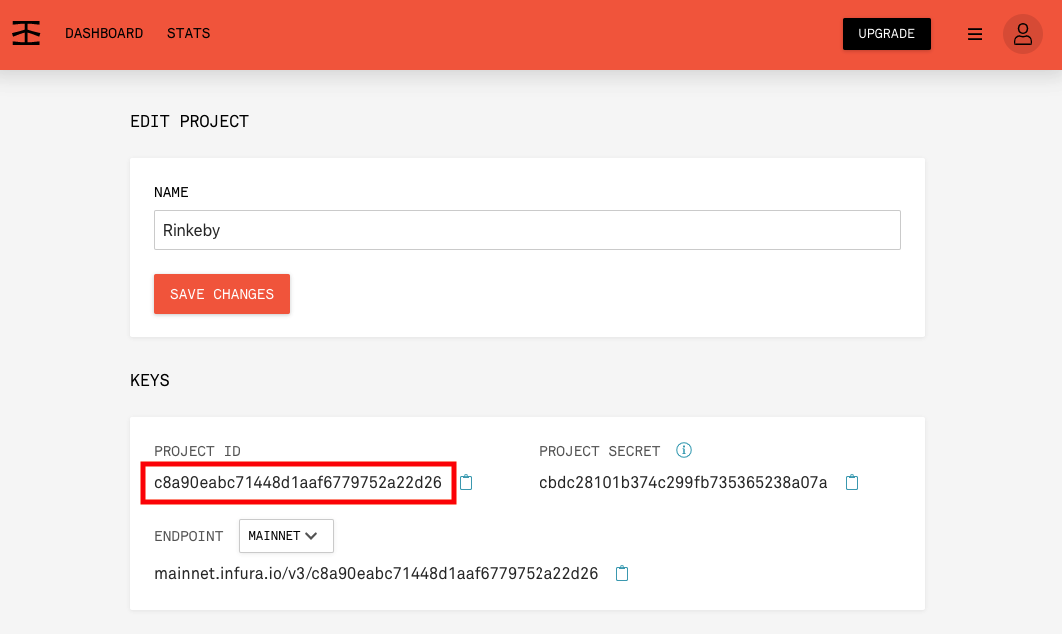
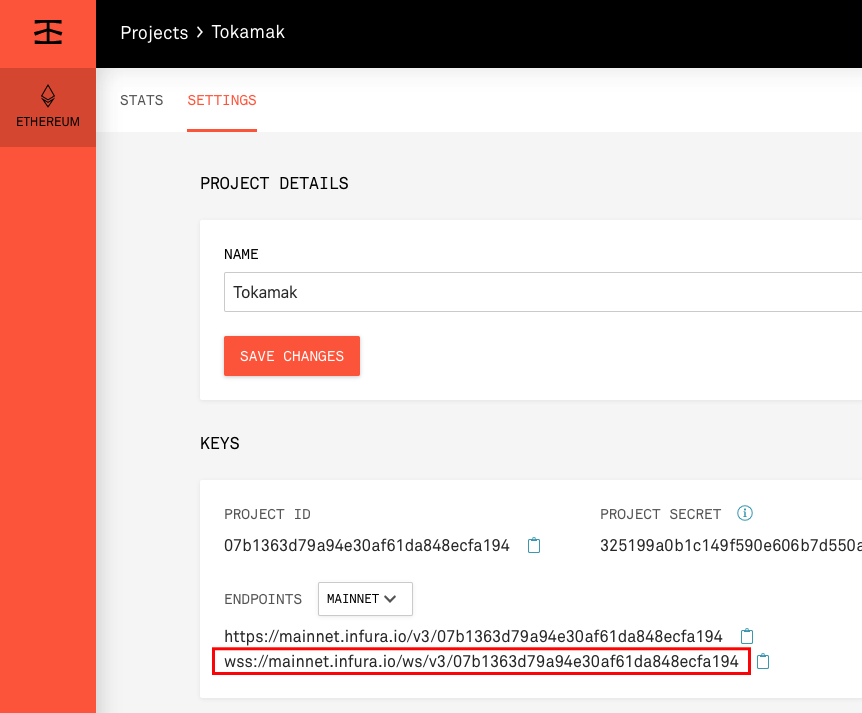
docs/getting-started: Updated TON staking docs for faraday and mainnet

diff --git a/website/translated_docs/ko/guides/getting-started/how-to-test-ton-stake-mainnet.md b/website/translated_docs/ko/guides/getting-started/how-to-test-ton-stake-mainnet.md
@@ -1,7 +1,7 @@
 ---
-id: faraday-testnet-staking
-title: Staking in Faraday Testnet
-sidebar_label: Staking Faraday Testnet
+id: mainnet-staking
+title: How to stake TON in Mainnet
+sidebar_label: Mainnet staking
 ---
 
 이 문서는 오퍼레이터가 TON을 스테이크 하는 방법에대해 다룬다.
@@ -27,7 +27,7 @@ sidebar_label: Staking Faraday Testnet
 
 ### 루트체인 접속 주소
 
-오퍼레이터 노드를 실행하기 위해 루트체인 접속 주소가 필요하다. 여러 방법이 있지만, `Infura`를 통해 제공되는 `Rinkeby` 테스트넷 노드 주소를 사용하는것이 간편하다. `Infura`를 통해 접속 가능한 주소를 확보한다.
+오퍼레이터 노드를 실행하기 위해 루트체인 접속 주소가 필요하다. 여러 방법이 있지만, `Infura`를 통해 제공되는 노드 주소를 사용하는것이 간편하다. `Infura`를 통해 접속 가능한 주소를 확보한다.
 
 만약, `Infura` 계정이 없다면 [infura.io](https://infura.io/) 회원가입을 통해 접속 주소(URL)를 얻을 수 있다.
 
@@ -35,10 +35,10 @@ sidebar_label: Staking Faraday Testnet
 
 그 다음, 아래와 같이 `PROJECT ID`가 조합된 `ENDPOINTS` 주소를 사용한다.
 
-`wss://rinkeby.infura.io/ws/v3/[PROJECT ID]`
+`wss://mainnet.infura.io/ws/v3/[PROJECT ID]`
 
 ![Infura node ID](assets/guides_create-infura-node.png)
-예) `wss://rinkeby.infura.io/ws/v3/07b1363d79a94e30af61da848ecfa194`
+예) `wss://mainnet.infura.io/ws/v3/07b1363d79a94e30af61da848ecfa194`
 
 만약 자신이 운영하고 있는 이더리움 노드가 있다면, 해당 노드의 접속 주소를 `Infura` 주소 대신 사용할 수 있다.
 
@@ -59,19 +59,13 @@ $ curl -g https://dashboard-api.tokamak.network/chainids
 
 현재까지 등록된 자식체인들의 ID가 `List` 형태로 출력된다.
 
-### 테스트 TON 받기
-
-<!- TODO : update how to get test ton ->
-
-WIP
-
 ## 오퍼레이터 자식체인 설정
 
 ### Plasma-evm 실행 환경 구성
 
 Plasma-evm 소스코드 컴파일 환경 구성은 [루트체인 설정 - 로컬 환경 설정](how-to-open-private-testnet-rootchain#로컬-환경-설정) 을 참고한다.
 
-[프라이빗 테스트넷 시작](how-to-open-private-testnet-rootchain#저장소-다운로드-및-컴파일) 과정을 통해 `plasma-evm` 의 `geth` 실행이 가능하다면 다음 단계로 넘어가도 된다.
+[프라이빗 테스트넷 시작]() 과정을 통해 `plasma-evm` 의 `geth` 실행이 가능하다면 다음 단계로 넘어가도 된다.
 
 먼저, 소스코드를 다운로드 받는다.
 
@@ -134,7 +128,7 @@ Path of the secret key file: operator/keystore/UTC--2020-01-01T00-00-00.00000000
 ```bash
 plasma-evm $ build/bin/geth --nousb deploy genesis.json 1010 true 2 \
             --datadir ./operator \
-            --rootchain.url wss://rinkeby.infura.io/ws/v3/07b1363d79a94e30af61da848ecfa194 \
+            --rootchain.url wss://mainnet.infura.io/ws/v3/07b1363d79a94e30af61da848ecfa194 \
             --unlock 0x57ab89f4eabdffce316809d790d5c93a49908510 \
             --password pwd.pass \
             --rootchain.sender 0x57ab89f4eabdffce316809d790d5c93a49908510
@@ -145,7 +139,7 @@ plasma-evm $ build/bin/geth --nousb deploy genesis.json 1010 true 2 \
 ```bash
 plasma-evm $ build/bin/geth --nousb init genesis.json \
             --datadir ./operator  \
-            --rootchain.url wss://rinkeby.infura.io/ws/v3/07b1363d79a94e30af61da848ecfa194
+            --rootchain.url wss://mainnet.infura.io/ws/v3/07b1363d79a94e30af61da848ecfa194
 ```
 
 ### 스테이크 주소 설정
@@ -176,7 +170,7 @@ plasma-evm $ build/bin/geth --nousb manage-staking getManagers --datadir ./opera
 ```bash
 plasma-evm $ build/bin/geth --nousb manage-staking register \
             --datadir ./operator \
-            --rootchain.url wss://rinkeby.infura.io/ws/v3/07b1363d79a94e30af61da848ecfa194 \
+            --rootchain.url wss://mainnet.infura.io/ws/v3/07b1363d79a94e30af61da848ecfa194 \
             --unlock 0x57ab89f4eabdffce316809d790d5c93a49908510 \
             --password pwd.pass \
             --rootchain.sender 0x57ab89f4eabdffce316809d790d5c93a49908510
@@ -238,7 +232,7 @@ curl -X POST \
 
 ### 커미션 설정
 
-오퍼레이터가 아닌 일반 사용자들로부터 `TON`을 위임받을 수 있다. 이때, 오퍼레이터는 위임 받은 `TON` 토큰에서 발생한 시뇨리지에 대한 커미션, 즉 수수료를 받을 수 있다.
+오퍼레이터가 아닌 일반 사용자들로부터 `TON`을 위임받을 수 있다. 이때, 오퍼레이터는 위임 받은 `TON` 토큰에서 발생한 시뇨리지에 대한 커미션, 즉 수수료를 정할 수 있다.
 
 초기 루트체인 컨트랙트를 등록하거나, 오퍼레이터가 자식체인을 운영하는 도중에서도 변경 가능하다.
 
@@ -249,7 +243,7 @@ curl -X POST \
 ```bash
 plasma-evm $ build/bin/geth --nousb manage-staking setCommissionRate 0.01 \
             --datadir ./operator \
-            --rootchain.url wss://rinkeby.infura.io/ws/v3/07b1363d79a94e30af61da848ecfa194 \
+            --rootchain.url wss://mainnet.infura.io/ws/v3/07b1363d79a94e30af61da848ecfa194 \
             --unlock 0x57ab89f4eabdffce316809d790d5c93a49908510 \
             --password pwd.pass \
             --rootchain.sender 0x57ab89f4eabdffce316809d790d5c93a49908510
@@ -262,7 +256,7 @@ plasma-evm $ build/bin/geth --nousb manage-staking setCommissionRate 0.01 \
 ```bash
 plasma-evm $ build/bin/geth --nousb staking balances 0x57ab89f4eabdffce316809d790d5c93a49908510 \
             --datadir ./operator \
-            --rootchain.url wss://rinkeby.infura.io/ws/v3/07b1363d79a94e30af61da848ecfa194 \
+            --rootchain.url wss://mainnet.infura.io/ws/v3/07b1363d79a94e30af61da848ecfa194 \
             --unlock 0x57ab89f4eabdffce316809d790d5c93a49908510 \
             --password pwd.pass \
             --rootchain.sender 0x57ab89f4eabdffce316809d790d5c93a49908510
@@ -303,7 +297,7 @@ INFO [01-01|00:00:00.000] Comitted Stake                           amount="0 WTO
 ```bash
 plasma-evm $ build/bin/geth --nousb staking swapFromTON 1000.0 \
             --datadir ./operator \
-            --rootchain.url wss://rinkeby.infura.io/ws/v3/07b1363d79a94e30af61da848ecfa194 \
+            --rootchain.url wss://mainnet.infura.io/ws/v3/07b1363d79a94e30af61da848ecfa194 \
             --unlock 0x57ab89f4eabdffce316809d790d5c93a49908510 \
             --password pwd.pass \
             --rootchain.sender 0x57ab89f4eabdffce316809d790d5c93a49908510
@@ -314,7 +308,7 @@ plasma-evm $ build/bin/geth --nousb staking swapFromTON 1000.0 \
 ```bash
 plasma-evm $ build/bin/geth --nousb staking stakeWTON 500.0 \
             --datadir ./operator \
-            --rootchain.url wss://rinkeby.infura.io/ws/v3/07b1363d79a94e30af61da848ecfa194 \
+            --rootchain.url wss://mainnet.infura.io/ws/v3/07b1363d79a94e30af61da848ecfa194 \
             --unlock 0x57ab89f4eabdffce316809d790d5c93a49908510 \
             --password pwd.pass \
             --rootchain.sender 0x57ab89f4eabdffce316809d790d5c93a49908510
@@ -325,7 +319,7 @@ plasma-evm $ build/bin/geth --nousb staking stakeWTON 500.0 \
 ```bash
 plasma-evm $ build/bin/geth --nousb staking stakeTON 500.0 \
             --datadir ./operator \
-            --rootchain.url wss://rinkeby.infura.io/ws/v3/07b1363d79a94e30af61da848ecfa194 \
+            --rootchain.url wss://mainnet.infura.io/ws/v3/07b1363d79a94e30af61da848ecfa194 \
             --unlock 0x57ab89f4eabdffce316809d790d5c93a49908510 \
             --password pwd.pass \
             --rootchain.sender 0x57ab89f4eabdffce316809d790d5c93a49908510
@@ -348,7 +342,7 @@ plasma-evm $ build/bin/geth --nousb staking stakeTON 500.0 \
 ```bash
 plasma-evm $ build/bin/geth --nousb \
             --datadir ./operator \
-            --rootchain.url wss://rinkeby.infura.io/ws/v3/07b1363d79a94e30af61da848ecfa194 \
+            --rootchain.url wss://mainnet.infura.io/ws/v3/07b1363d79a94e30af61da848ecfa194 \
             --unlock 0x57ab89f4eabdffce316809d790d5c93a49908510 \
             --password pwd.pass \
             --rootchain.sender 0x57ab89f4eabdffce316809d790d5c93a49908510 \
@@ -389,7 +383,7 @@ console에 `eth.sendTransaction({from: eth.accounts[0], to:eth.accounts[0], valu
 ```bash
 plasma-evm $ build/bin/geth --nousb staking balances 0x57ab89f4eabdffce316809d790d5c93a49908510 \
             --datadir ./operator \
-            --rootchain.url wss://rinkeby.infura.io/ws/v3/07b1363d79a94e30af61da848ecfa194 \
+            --rootchain.url wss://mainnet.infura.io/ws/v3/07b1363d79a94e30af61da848ecfa194 \
             --unlock 0x57ab89f4eabdffce316809d790d5c93a49908510 \
             --password pwd.pass \
             --rootchain.sender 0x57ab89f4eabdffce316809d790d5c93a49908510
@@ -426,7 +420,7 @@ INFO [01-01|00:00:00.000] Comitted Stake                           amount="500.0
 ```bash
 plasma-evm $ build/bin/geth --nousb staking requestWithdrawal 510.0 \
               --datadir ./operator \
-              --rootchain.url wss://rinkeby.infura.io/ws/v3/07b1363d79a94e30af61da848ecfa194 \
+              --rootchain.url wss://mainnet.infura.io/ws/v3/07b1363d79a94e30af61da848ecfa194 \
               --unlock 0x57ab89f4eabdffce316809d790d5c93a49908510 \
               --password pwd.pass \
               --rootchain.sender 0x57ab89f4eabdffce316809d790d5c93a49908510
@@ -449,7 +443,7 @@ b07f4d
 ```bash
 plasma-evm $ build/bin/geth --nousb staking balances 0x57ab89f4eabdffce316809d790d5c93a49908510 \
             --datadir ./operator \
-            --rootchain.url wss://rinkeby.infura.io/ws/v3/07b1363d79a94e30af61da848ecfa194 \
+            --rootchain.url wss://mainnet.infura.io/ws/v3/07b1363d79a94e30af61da848ecfa194 \
             --rootchain.sender 0x57ab89f4eabdffce316809d790d5c93a49908510
 
 INFO [01-01|00:00:00.000] Maximum peer count                       ETH=50 LES=0 total=50
@@ -475,7 +469,7 @@ INFO [01-01|00:00:00.000] Comitted Stake                           amount="10 WT
 ```bash
 plasma-evm $ build/bin/geth --nousb staking processWithdrawal \
               --datadir ./operator \
-              --rootchain.url wss://rinkeby.infura.io/ws/v3/07b1363d79a94e30af61da848ecfa194 \
+              --rootchain.url wss://mainnet.infura.io/ws/v3/07b1363d79a94e30af61da848ecfa194 \
               --unlock 0x57ab89f4eabdffce316809d790d5c93a49908510 \
               --password pwd.pass \
               --rootchain.sender 0x57ab89f4eabdffce316809d790d5c93a49908510
@@ -486,7 +480,7 @@ plasma-evm $ build/bin/geth --nousb staking processWithdrawal \
 ```bash
 plasma-evm $ build/bin/geth --nousb staking balances 0x57ab89f4eabdffce316809d790d5c93a49908510 \
             --datadir ./operator \
-            --rootchain.url wss://rinkeby.infura.io/ws/v3/07b1363d79a94e30af61da848ecfa194 \
+            --rootchain.url wss://mainnet.infura.io/ws/v3/07b1363d79a94e30af61da848ecfa194 \
             --rootchain.sender 0x57ab89f4eabdffce316809d790d5c93a49908510
 
 INFO [01-01|00:00:00.000] Maximum peer count                       ETH=50 LES=0 total=50

diff --git a/website/translated_docs/ko/guides/getting-started/how-to-test-ton-stake-private-testnet.md b/website/translated_docs/ko/guides/getting-started/how-to-test-ton-stake-private-testnet.md
@@ -336,7 +336,7 @@ INFO [01-01|00:00:00.000] Uncomitted Stake                         amount="100.0
 INFO [01-01|00:00:00.000] Comitted Stake                           amount="500.0 WTON"  rootchain=0x8Bb208b42B2d1dA1606B3E06ad6648514b6aE080 depositor=0x57ab89f4eAbDfFCe316809D790D5c93a49908510
 ```
 
-위 결과는 예시이며, 실제 스테이크 테스트시에는 시간에따라 시뇨리지 WTON이 계산되기 때문에 소수점자리까지 나타난다.
+위 결과는 예시이며, 실제 스테이크 테스트시에는 시간에 따라 시뇨리지 WTON이 계산되기 때문에 소수점자리까지 나타난다.
 
 ### 보상 인출
 

diff --git a/website/translated_docs/ko/guides/getting-started/how-to-connect-public-network-prepare.md b/website/translated_docs/ko/guides/getting-started/how-to-connect-public-network-prepare.md
@@ -64,6 +64,6 @@ export PATH=$GOPATH/bin:$GOROOT/bin:$PATH
 `wss://rinkeby.infura.io/ws/v3/[PROJECT ID]`
 
 ![Infura node ID](assets/guides_create-infura-node.png)
-예) `wss://rinkeby.infura.io/ws/v3/c8a90eabc71448d1aaf6779752a22d26`
+예) `wss://rinkeby.infura.io/ws/v3/07b1363d79a94e30af61da848ecfa194`
 
 만약 자신이 운영하고 있는 이더리움 클라이언트가 Rinkeby Testnet에 연결되어있다면, 해당 노드의 접속 주소를 위의 방법으로 확보한 `Infura` 주소 대신 사용할 수 있다.

diff --git a/docs/guides/getting-started/how-to-connect-public-network-prepare.md b/docs/guides/getting-started/how-to-connect-public-network-prepare.md
@@ -68,6 +68,6 @@ Configure `RootChain` address as below.
 
 ![Infura node ID](assets/guides_create-infura-node.png)
 
-Ex) `wss://rinkeby.infura.io/ws/v3/c8a90eabc71448d1aaf6779752a22d26`
+Ex) `wss://rinkeby.infura.io/ws/v3/07b1363d79a94e30af61da848ecfa194`
 
 If you already have your own node of Rinkeby testnet, you can use it instead of `Infura`.

diff --git a/docs/guides/getting-started/how-to-test-ton-stake-mainnet.md b/docs/guides/getting-started/how-to-test-ton-stake-mainnet.md
@@ -1,0 +1,7 @@
+---
+id: mainnet-staking
+title: How to stake TON in Mainnet
+sidebar_label: Mainnet staking
+---
+
+WIP
